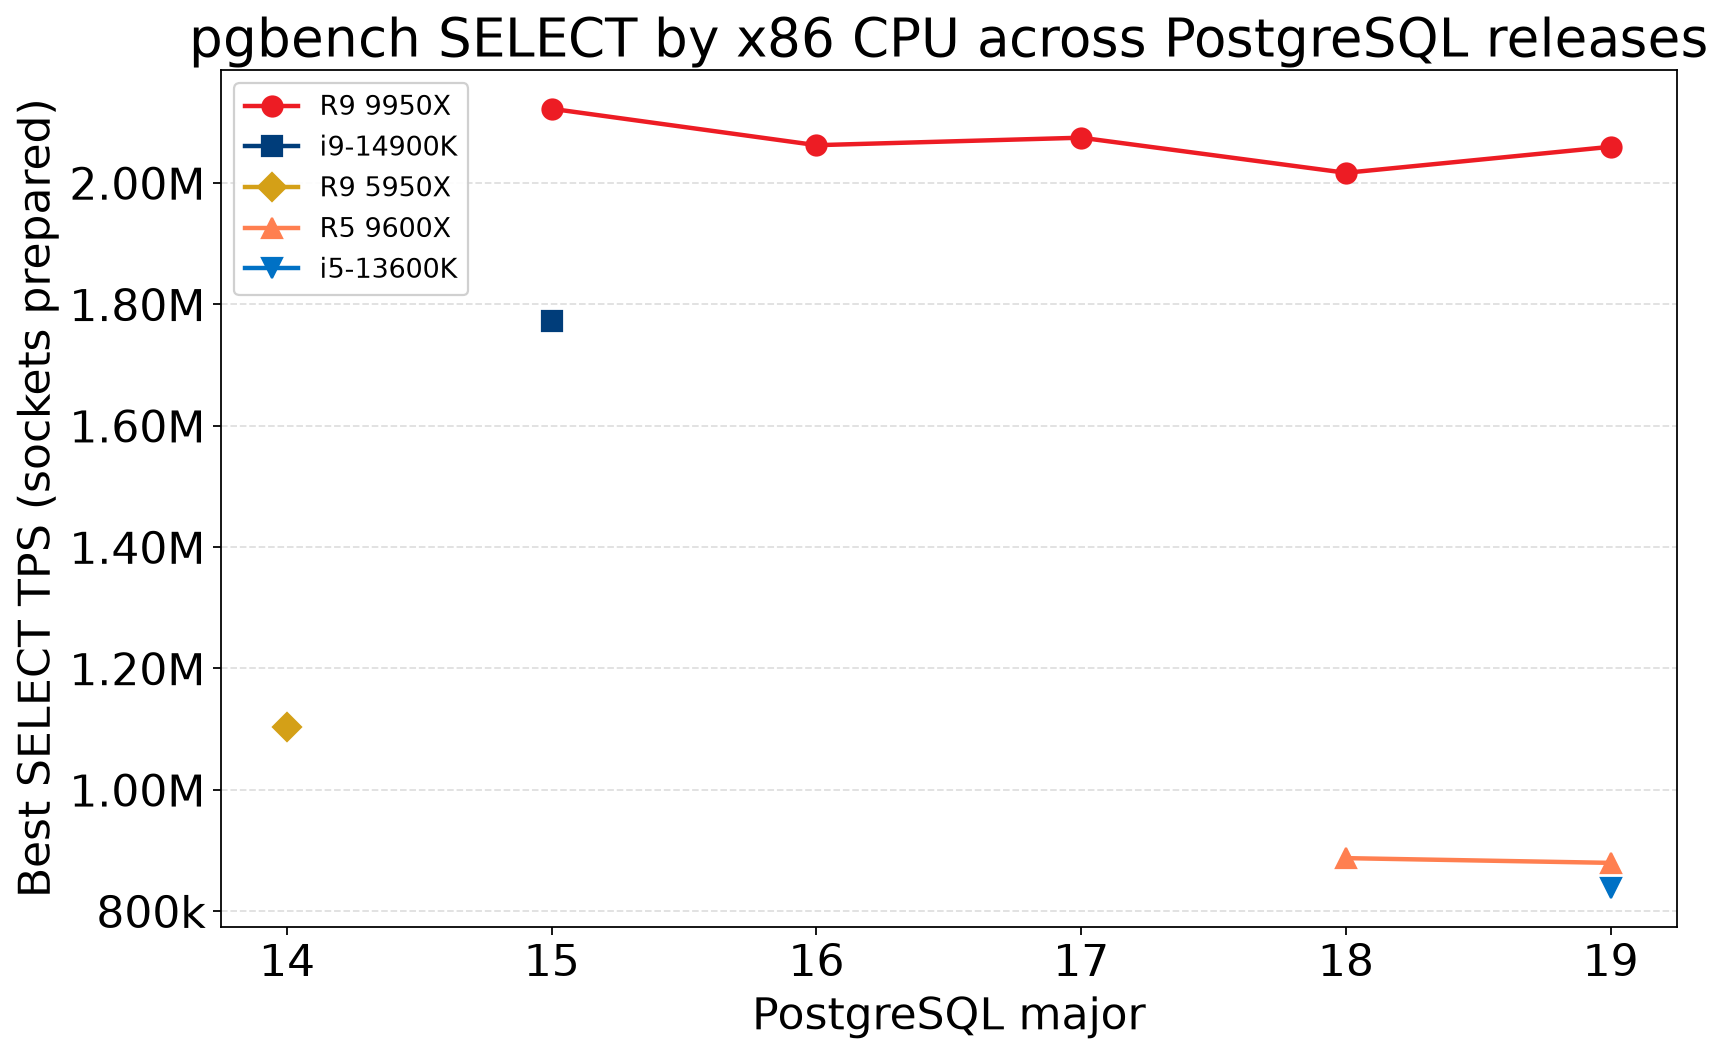
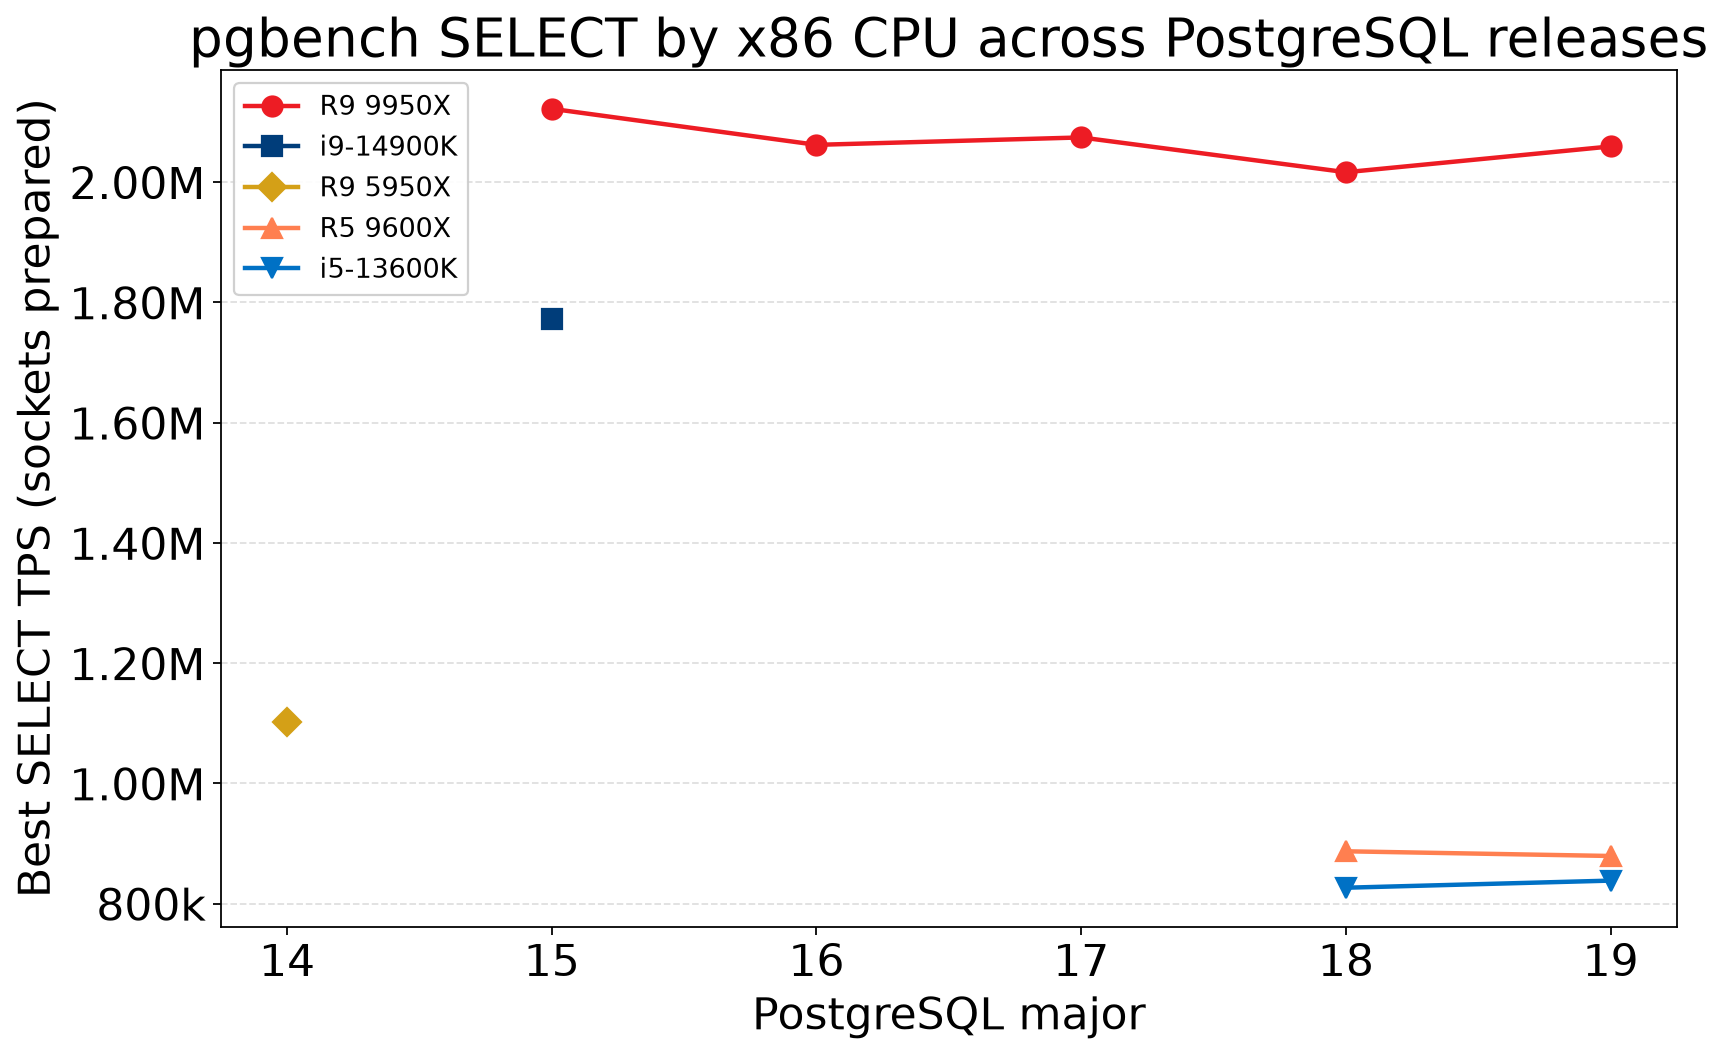
Add 13600K PG18 SELECT history and note Darwin tier-0 follow-ups.
Twilight set 153 fills the sockets-prepared 18→19 pair on the chart; Darwin
docs track the btree ladder result and the in-flight unclamped scatter set.

diff --git a/docs/platform/darwin.md b/docs/platform/darwin.md
@@ -17,7 +17,7 @@ Homebrew’s `brew services` installs a LaunchAgent (`sh.brew.postgresql@N`) tha
 | `brew services` | `THREAD_QOS_UTILITY` | tier 1 | ~52–53 TPS | ~1670–1677 |
 | `pg_ctl` from ssh/login | none | tier 0 | ~68 TPS | ~2577–2579 |
 
-About **+30% at c=1** and **+54% at c=32** when unclamped. Published Abbey select-scatter-64 set 13 was under the clamped service — treat those numbers as soft. Intermittent “Darwin looks fine / then doesn’t” OSM behavior matches sometimes using `brew services` and sometimes a manual `pg_ctl`.
+About **+30% at c=1** and **+54% at c=32** when unclamped. Published Abbey select-scatter-64 set **13** was under the clamped service — treat those numbers as soft. The unclamped A/B lives in ad-hoc `results/logs/darwin-qos-ab/` logs, not as a results-DB set. **Loose end:** after the btree build ladder (sets **17**/**18**), re-run the cold `select-scatter-64` grid under **tier 0** (`pg_ctl`) into a proper `testset` so the study has a published unclamped peer to set 13. Intermittent “Darwin looks fine / then doesn’t” OSM behavior matches sometimes using `brew services` and sometimes a manual `pg_ctl`.
 
 ### Startup: tier 1 (brew / LaunchAgent)
 
@@ -83,12 +83,22 @@ Backends inherit the postmaster’s effective policy. Spot-check one with `pgrep
 
 OSM index builds stayed slow even after unclamping Relations. A cheaper first pass is the instrumented pgbench init that `runset` already records when `NEWINIT=1` (`script` like `:-i%`).
 
-**Protocol (in flight as set 17):**
+**Protocol:**
 
 1. Start via **brew** (tier 1). Stash the class in `MULTI` (`1` = tier 1, `0` = tier 0).
 2. Small scale ladder ≈ **½ / 1× / 2× RAM** on Abbey’s 128 GB: `SCALES="4250 8500 17500"`.
 3. One client, short SELECT spacer, two reps: `SETCLIENTS=1`, `RUNTIME=30`, `SETTIMES=2`.
 4. Repeat the same ladder after a **pg_ctl** restart with `MULTI=0`.
+
+Set **17** is the brew / `MULTI=1` half; set **18** is the `pg_ctl` / `MULTI=0` half (both done 2026-11-19). Init wall times (secs):
+
+| scale | tier 1 (17) | tier 0 (18) |
+|------:|------------:|------------:|
+| 4250 | 1688 | 1658 |
+| 8500 | 2677 | 2226 |
+| 17500 | 5382 | 5448 |
+
+Mostly flat at the ends; mid-scale ~17% faster unclamped. Does **not** clear the OSM index cliff. Set **17** may have seen **low free disk** — if that mid-scale gap looks unreliable, rerun the brew half. **Next (in flight):** set **20** cold `select-scatter-64` under tier 0 (`pg_ctl`, `purge` confirmed) — peer to clamped set **13**.
 
 Default `config` already enables `NEWINIT` / server-side init (`:-i -I dtGvp`); only `params` needs the overrides above. Compare init wall time and disk metrics on the `:-i%` rows, split by `multi`. This surveys ordinary btree PK/index build under each I/O class — not OSM GIST/GIN — so a flat result here does not clear the planet index cliff.
 

diff --git a/docs/studies/arm-random-read-vs-x86/index.md b/docs/studies/arm-random-read-vs-x86/index.md
@@ -195,5 +195,6 @@ Natural next reproduction: **Graviton** or another server-class Linux ARM vendor
 - Court OSM coalescing off: durable set **24** / test **217** Relations **~1.74×** (**13251 s → 7614 s**), **6.48h**, score **656**; fast set **25** / test **218** **6.12h**, score **780** — on the public boards.
 - Court's remaining ~2× Relations gap vs a good x86 after coalescing — suspected mostly the ~2.8 vs ~5.7 GHz clock envelope; not assumed to reach parity.
 - Abbey unclamped OSM: Relations win on sets **15** / **16**; cool-disk **16** still ~**10.4h** overall (indexes stay slow) — on the public durable board (**279** score).
+- Abbey **select-scatter-64 under tier 0** — set **13** is brew/clamped; set **20** cold peer in flight on `pg_ctl` (after btree ladder **17**/**18**).
 - Twilight `read_ahead_kb` ladder + OSM RA=0 (sets **134–146**) and wrap fast OSM set **152** (**570** / **5.26h**, not board-best) banked; RA=0 cost under [Linux standard tuning]({{ '/platform/linux/' | relative_url }}) § Read-ahead.
 - CPU and power cost of coalescing off (court avg package ~24→34 W; Relations/watt still up).

diff --git a/.agents/skills/pg-release-runs/SKILL.md b/.agents/skills/pg-release-runs/SKILL.md
@@ -643,10 +643,13 @@ Skip before upgrade: PG15–17 SELECT or OSM on 9600X, more AIO/RA on siren,
 anything that needs twilight’s disk headroom. Archives
 `siren-20261119-083836` / `twilight-20261119-085437` ingested; siren wrap
 Postgres cells + twilight latest (incl. fast OSM **152** / score **1038**)
-are in `submission`. Pre-upgrade GB7 banked. **One twilight Postgres cell
-left before cutover:** PG18 sockets(-prepared) SELECT on the **13600K** so
-`select-history` has an 18→19 pair (PG19 **838k** already in from set **119**).
-Siren is clear; twilight runs that cell, then OS cutover.
+are in `submission`. Pre-upgrade GB7 banked. **Twilight PG18 SELECT faces
+done (2026-11-19):** set **153** `PG18 SELECT faces (pre-OS cutover)` —
+four faces rc=0 on **18:5436** (results **16:5432**). Sockets prepared
+peaks **774658** @32 / **826633** @64 (vs set **119** PG19 **838453** @64).
+`start.conf` still **18/16=auto**, **19=manual**. Local + `submission`
+ingested; `select-history` regenerated with 13600K **18→19** (**826633** /
+**838453** @64) next to 9600X. OS cutover next.
 
 ### OS cutover (after the wrap)
 

diff --git a/.cursor/skills/pg-release-runs/SKILL.md b/.cursor/skills/pg-release-runs/SKILL.md
@@ -643,10 +643,13 @@ Skip before upgrade: PG15–17 SELECT or OSM on 9600X, more AIO/RA on siren,
 anything that needs twilight’s disk headroom. Archives
 `siren-20261119-083836` / `twilight-20261119-085437` ingested; siren wrap
 Postgres cells + twilight latest (incl. fast OSM **152** / score **1038**)
-are in `submission`. Pre-upgrade GB7 banked. **One twilight Postgres cell
-left before cutover:** PG18 sockets(-prepared) SELECT on the **13600K** so
-`select-history` has an 18→19 pair (PG19 **838k** already in from set **119**).
-Siren is clear; twilight runs that cell, then OS cutover.
+are in `submission`. Pre-upgrade GB7 banked. **Twilight PG18 SELECT faces
+done (2026-11-19):** set **153** `PG18 SELECT faces (pre-OS cutover)` —
+four faces rc=0 on **18:5436** (results **16:5432**). Sockets prepared
+peaks **774658** @32 / **826633** @64 (vs set **119** PG19 **838453** @64).
+`start.conf` still **18/16=auto**, **19=manual**. Local + `submission`
+ingested; `select-history` regenerated with 13600K **18→19** (**826633** /
+**838453** @64) next to 9600X. OS cutover next.
 
 ### OS cutover (after the wrap)
 
